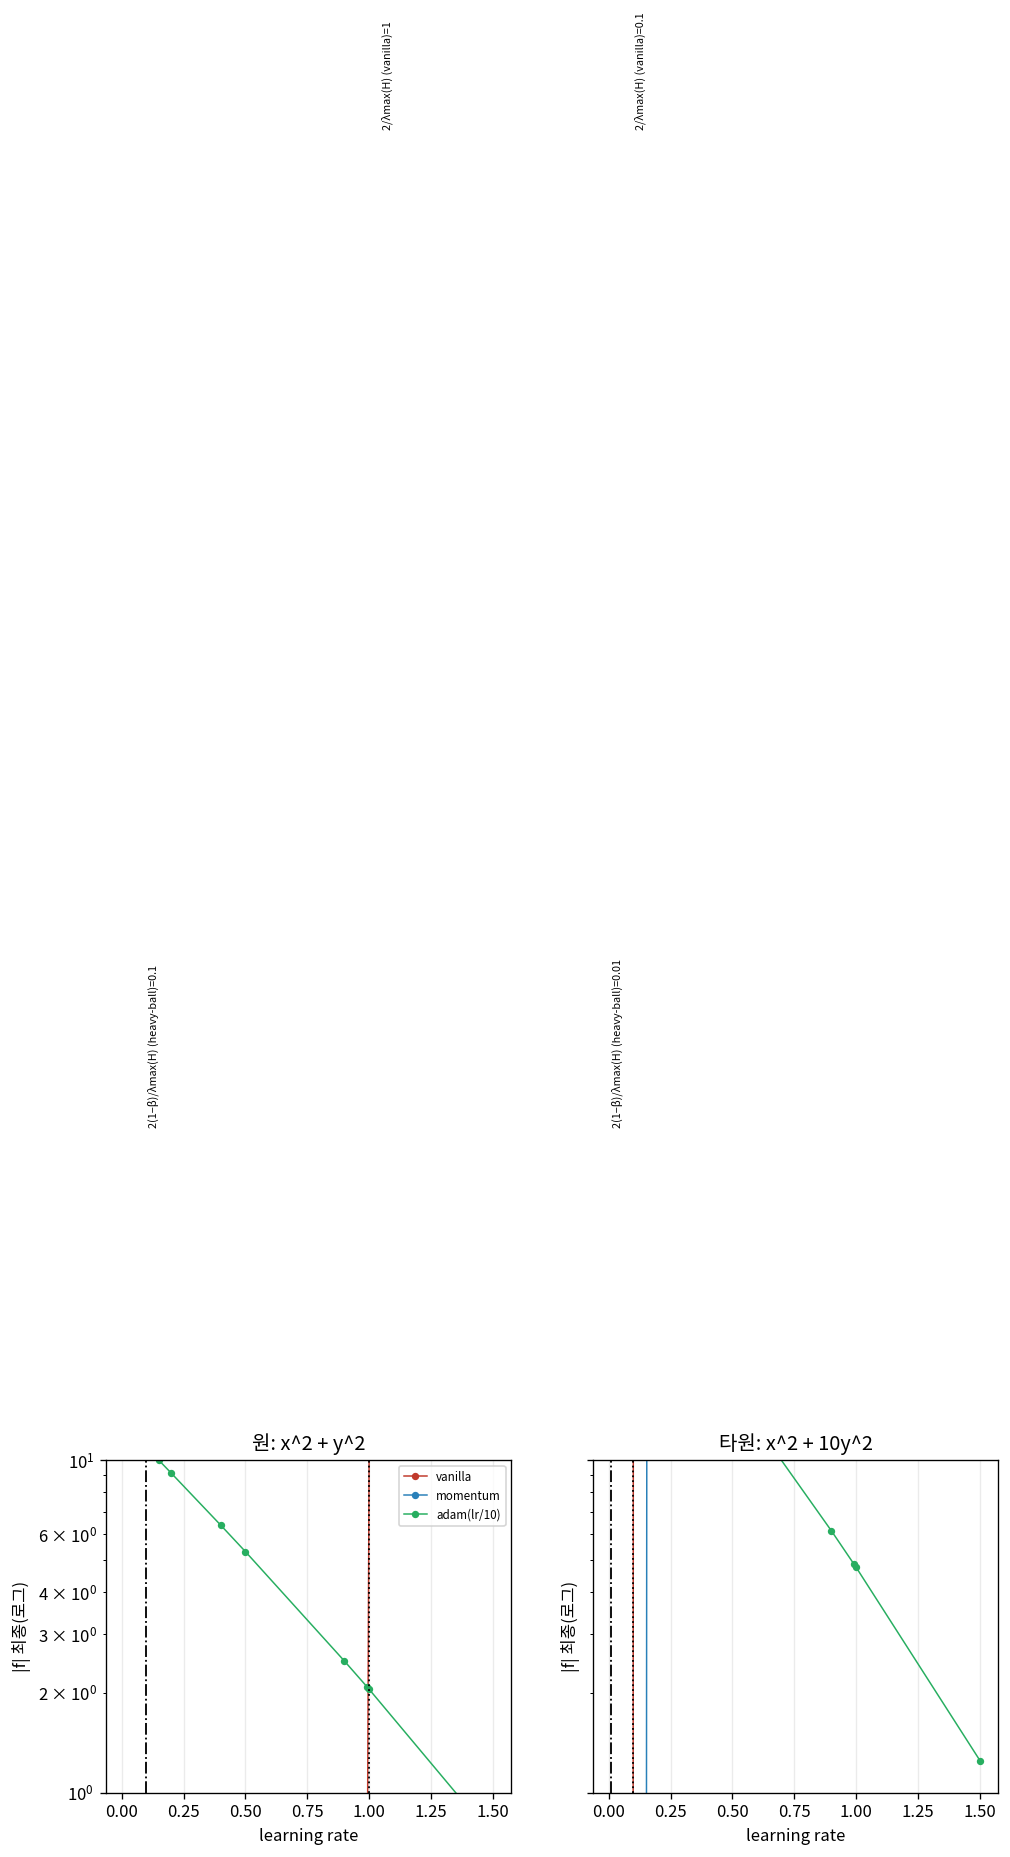
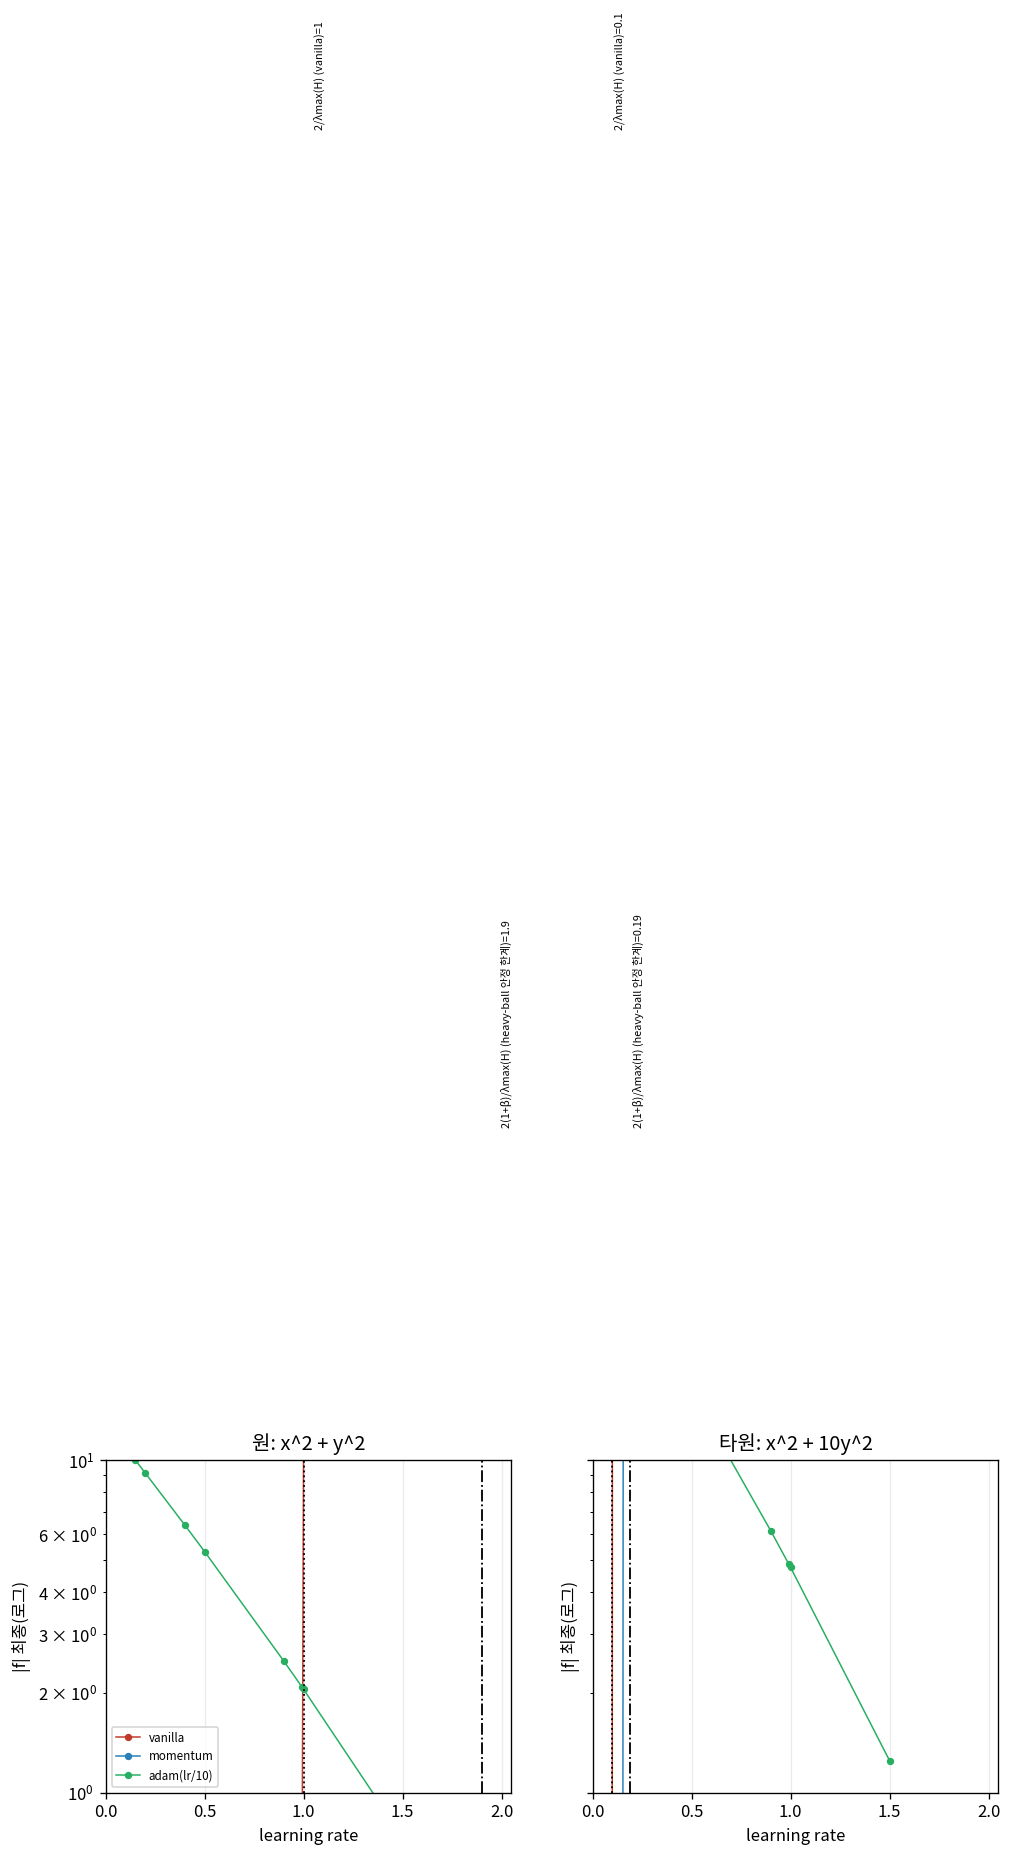
fix(audit-2b): 모멘텀 상한 2차 재 정정 — 발산 경계는 안정 한계 2(1+β)/λmax(H)
1차 감사에서 모멘텀 이론 상한을 실효 lr 휴리스틱 2(1−β)/λmax(H)(원 0.1·타원 0.01)로
"정정"했으나, 이것은 발산 경계가 아니라 "GD 동급 수렴속도" 상한이었다. 그 결과
analysis §5 에서 "측정 상한(원문기준) 원 1.5·타원 0.15 > 이론 0.1·0.01"이라는
새 자기모순이 생겼다(2차 감사 지적).

상태행렬 유도: heavy-ball(v←βv+g, p←p−lr·v)의 좌표별 상태행렬
M = [[1−lr·λ, −lr·β],[λ, β]] 의 스펙트럼반경 < 1 ⇔ lr·λ < 2(1+β).
→ **안정 한계 2(1+β)/λmax(H) = 원 1.9 · 타원 0.19**.
실측 대조: 타원 lr=0.15 안정(4.973e-03) → 0.2 발산(4.702e+37) — 경계 ∈(0.15,0.2] 로 0.19 와 일치.
100회 내 f<1e-8 인 momentum lr 이 하나도 없는 것(자체기준 측정 상한 None)은
실효lr 상한(0.1/0.01)이 수렴"속도" 기준임과 정합.

반영: optimizer.py(클래스 독스트림·upper·팩토리 계수·이론_상한_정의·주의·그림05 점선+xlim)·
check_requirements(기대값 0.19)·test_gates(0.19)·README(표 행·정정 기록 2번·G3 행).
검증: gates 4/4 · 82/82 · STRICT 23 passed · 노트북 2회 빌드 바이트 동일.

diff --git a/src/optimizer.py b/src/optimizer.py
@@ -9,8 +9,10 @@
    원 lr=0.01·0.99 는 부호 반전 없는 **단조 수렴 중**(정체)이다. → 발산 / 진동(좌표 부호반전 관측) / 정체 / 수렴 4분할.
 2. **원문 기준 열**을 추가한다: 원문 4-2 는 "lr=0.1, 100회 후 반경 0.1 이내"를 요구한다. 자체 기준(f<1e-8)은
    원문보다 훨씬 엄격하므로 두 기준을 나란히 싣는다.
-3. 모멘텀·Adam 의 이론 상한을 정정한다. 이 구현의 모멘텀은 **heavy-ball 변형**(v←βv+g, p←p−lr·v)이라
-   실효 학습률이 lr/(1−β)=10·lr 이다 → 상한은 2/λmax 가 아니라 **2(1−β)/λmax**.
+3. 모멘텀·Adam 의 이론 상한을 정정한다(2차 감사에서 재 정정). 이 구현의 모멘텀은 **heavy-ball 변형**(v←βv+g, p←p−lr·v)이고,
+   **발산 경계는 안정 한계 2(1+β)/λmax(H)**(원 1.9·타원 0.19 — 상태행렬 스펙트럼반경<1 ⇔ lr·λ<2(1+β), 실측 발산 경계와 일치)다.
+   실효 학습률 lr/(1−β)=10·lr 에서 나오는 2(1−β)/λmax(H)(원 0.1·타원 0.01)는 "GD 동급 수렴속도" 기준이지 발산 경계가 아니고,
+   초판의 2/λmax(H)(원 1.0·타원 0.1)는 둘 다 아니다.
 4. 원문 4-4 "lr≥0.5 에서 발산"은 **원(x²+y²)에서는 성립하지 않는다**(이론 상한 1.0) → 대조 표를 싣는다.
 """
 from __future__ import annotations
@@ -46,9 +48,14 @@ class VanillaGD:
 
 
 class Momentum:
-    """heavy-ball 변형: v ← βv + g, p ← p − lr·v  (Nesterov 아님). 정상상태 실효 학습률 ≈ lr/(1−β)."""
+    """heavy-ball 변형: v ← βv + g, p ← p − lr·v  (Nesterov 아님). 정상상태 실효 학습률 ≈ lr/(1−β).
+
+    두 상한을 구분한다(2차 감사 자기정정):
+    - 발산 경계 = **안정 한계** lr·λmax < 2(1+β): 좌표별 상태행렬 [[1−lr·λ, −lr·β],[λ, β]] 의 스펙트럼반경<1 조건.
+    - 실효 lr = lr/(1−β) 휴리스틱의 2(1−β)/λmax 는 "GD 동급 수렴속도" 상한이지 발산 경계가 아니다.
+    """
     name = "momentum"
-    upper = f"2(1−β)/λmax(H) (heavy-ball · 실효 lr≈lr/(1−β)={1 / (1 - BETA):g}·lr)"
+    upper = "2(1+β)/λmax(H) (heavy-ball 안정 한계)"
 
     def __init__(self, lr: float, beta: float = BETA):
         self.lr, self.beta, self.v = lr, beta, None
@@ -113,7 +120,7 @@ def verdict(f0: float, f1: float, path: np.ndarray) -> str:
 
 def main() -> dict:
     rows, paths = [], {}
-    factories = [("vanilla", VanillaGD, 2.0), ("momentum", Momentum, 2.0 * (1 - BETA)),
+    factories = [("vanilla", VanillaGD, 2.0), ("momentum", Momentum, 2.0 * (1 + BETA)),
                  ("adam(lr/10)", lambda lr: Adam(lr / 10.0), None)]
     for fname, A in FUNCS.items():
         hess_max = HESS[fname]
@@ -193,12 +200,13 @@ def main() -> dict:
             ax.semilogy(xs_, np.clip(ys_, 1e-16, None), "o-", ms=3.4, lw=.9, color=color, label=oname)
         hess_max = HESS[fname]
         for coef, ls, lab in [(2.0, ":", "2/λmax(H) (vanilla)"),
-                              (2.0 * (1 - BETA), "-.", "2(1−β)/λmax(H) (heavy-ball)")]:
+                              (2.0 * (1 + BETA), "-.", "2(1+β)/λmax(H) (heavy-ball 안정 한계)")]:
             up = coef / hess_max
             ax.axvline(up, ls=ls, c="k", lw=1.1)
             ax.text(up * 1.05, 1e5 if coef == 2.0 else 1e2, f"{lab}={up:.3g}", fontsize=6.5, rotation=90, va="bottom")
         ax.set_title(fname); ax.set_xlabel("learning rate"); ax.set_ylabel("|f| 최종(로그)")
         ax.grid(alpha=.25)
+        ax.set_xlim(0, 2.05)   # 원의 안정 한계 1.9 가 스윕 범위(최대 1.5) 너머라도 보이도록
     axes[0].legend(fontsize=7)
     save(fig, "05_lr_sweep.png")
 
@@ -228,7 +236,7 @@ def main() -> dict:
                         "(발산 아님), momentum lr=0.5 → "
                         f"{next(r['f_최종'] for r in rows if r['함수'].startswith('원') and r['옵티'] == 'momentum' and r['lr'] == 0.5)}. "
                         "이론 상한이 원은 1.0, 타원은 0.1 이므로 'lr≥0.5 발산'은 **타원에서만** 참이다. "
-                        "그림 05 의 두 점선(2/λmax, 2(1−β)/λmax)이 그 경계다")},
+                        "그림 05 의 두 점선(2/λmax, 2(1+β)/λmax)이 그 경계다")},
            "핵심_실측": {"타원_vanilla_lr0.15": v_tae[0]["f_최종"], "타원_momentum_lr0.15": m_tae[0]["f_최종"],
                         "원_vanilla_측정상한(자체기준)": conv["원: x^2 + y^2 / vanilla"]["측정_상한(자체기준)"],
                         "원_vanilla_측정상한(원문기준)": conv["원: x^2 + y^2 / vanilla"]["측정_상한(원문기준)"],
@@ -238,15 +246,20 @@ def main() -> dict:
                         "타원_이론상한": conv["타원: x^2 + 10y^2 / vanilla"]["이론_상한"],
                         "타원_momentum_이론상한": conv["타원: x^2 + 10y^2 / momentum"]["이론_상한"]},
            "이론_상한_정의": {"vanilla": "lr < 2/λmax(H) — 원(H=2I) 1.0, 타원(H=diag(2,20)) 0.1",
-                              "momentum(heavy-ball v←βv+g)": "lr < 2(1−β)/λmax(H) — 원 0.1, 타원 **0.01** "
-                                                              "(실효 lr = lr/(1−β) = 10·lr 이라 vanilla 의 1/10)",
+                              "momentum(heavy-ball v←βv+g)": "발산 경계 = 안정 한계 lr < 2(1+β)/λmax(H) — 원 **1.9**, 타원 **0.19** "
+                                                              "(실측: 타원 0.15 안정 → 0.2 발산, 경계 ∈(0.15,0.2] 로 일치). "
+                                                              "실효 lr = lr/(1−β) = 10·lr 휴리스틱의 2(1−β)/λmax(H) = 원 0.1·타원 0.01 은 "
+                                                              "'GD 동급 수렴속도' 상한(100회 내 f<1e-8 인 lr 이 없는 것과 정합)이지 발산 경계가 아니다",
                               "adam": "해석 상한 없음(적응형) — 측정만 싣는다",
-                              "주의": "이전 버전은 세 옵티마이저 모두에 2/λmax 를 적었다. 모멘텀 상한이 10배 느슨하게 "
-                                      "잘못 표기됐던 것(감사 지적) — 그리고 코드 안 λmax 가 eigvalsh(A)[-1]=2·λmax(H) 였다"},
+                              "주의": "초판은 세 옵티마이저 모두에 2/λmax 를 적었고(1차 감사 지적), 1차 정정은 모멘텀에 "
+                                      "실효lr 상한 2(1−β)/λmax 를 발산 경계로 잘못 넣었다 → '측정(원문기준) 1.5·0.15 > 이론 0.1·0.01' "
+                                      "모순이 생김. 2차 감사에서 상태행렬 스펙트럼반경으로 안정 한계 2(1+β)/λmax 를 유도해 재 정정했다. "
+                                      "그리고 코드 안 λmax 는 eigvalsh(A)[-1]=2·λmax(H) 였다 → 표기를 헤세 기준으로 통일"},
            "주의": (f"최종값은 {ITERS}회 반복 후이며 '수렴' 자체기준은 f<{F_CONV:g}(원문 기준은 반경 ≤{R_SPEC}). "
                     "기준을 바꾸면 상한이 같이 움직이므로 lr 단독 주장 금지(함수·기준·반복수를 함께 적는다). "
                     "'진동'은 좌표의 부호 반전이 관측된 경우에만 붙이고, 감소 중이나 기준 미달이면 '정체'로 쓴다. "
-                    "모멘텀은 heavy-ball 변형이라 실효 학습률이 lr/(1−β)=10·lr → 상한 공식이 vanilla 와 다르다"),
+                    "모멘텀은 heavy-ball 변형: 발산 경계는 안정 한계 2(1+β)/λmax(H)(원 1.9·타원 0.19)이고, "
+                    "실효 학습률 lr/(1−β)=10·lr 은 수렴속도 문제다(GD 동급 상한 2(1−β)/λmax=원 0.1·타원 0.01)"),
            "조건": f"시작점 {list(P0)}, 반복 {ITERS}, float64, 모멘텀 β={BETA}(heavy-ball), Adam lr=lr/10"}
     return write("optimizer.json", out)
 

diff --git a/tests/test_gates.py b/tests/test_gates.py
@@ -72,10 +72,11 @@ def test_03_G3_원문42_반경_그리고_모멘텀_이점():
     assert van["판정"] == "발산", f"타원 lr=0.15 vanilla 가 발산해야 모멘텀과 대비된다: {van}"
     assert mom["원문4-2_기준(반경≤0.1)"], f"타원 lr=0.15 momentum 반경: {mom['반경_최종']}"
     assert mom["판정"] != "발산"
-    # 이론 상한: vanilla 는 2/λmax, heavy-ball 모멘텀은 2(1−β)/λmax 여야 한다(이전엔 둘 다 2/λmax 였다)
+    # 이론 상한: vanilla 는 2/λmax, heavy-ball 모멘텀의 발산 경계는 안정 한계 2(1+β)/λmax 여야 한다
+    # (초판은 둘 다 2/λmax, 1차 정정은 2(1−β)/λmax 로 잘못 넣었다 — 2차 감사 재 정정)
     ell = {k: v for k, v in op["수렴_상한"].items() if k.startswith("타원")}
     assert abs(ell["타원: x^2 + 10y^2 / vanilla"]["이론_상한"] - 0.1) < 1e-9
-    assert abs(ell["타원: x^2 + 10y^2 / momentum"]["이론_상한"] - 0.01) < 1e-9, ell["타원: x^2 + 10y^2 / momentum"]
+    assert abs(ell["타원: x^2 + 10y^2 / momentum"]["이론_상한"] - 0.19) < 1e-9, ell["타원: x^2 + 10y^2 / momentum"]
     for k, v in op["수렴_상한"].items():
         if v["측정_상한(자체기준)"] is not None and v["이론_상한"] is not None:
             assert v["측정_상한(자체기준)"] <= v["이론_상한"] + 1e-12, f"{k}: {v}"

diff --git a/scripts/check_requirements.py b/scripts/check_requirements.py
@@ -114,8 +114,8 @@ def main() -> int:
         check("원문4-6 두 옵티마이저 경로를 하나의 Figure에 겹침",
               "plot" in (ROOT / "src" / "optimizer.py").read_text(encoding="utf-8")
               and (FIG / "04_optimizer_paths.png").exists(), spec=True)
-        check("모멘텀 이론상한이 heavy-ball 공식(2(1−β)/λmax)",
-              abs(op["수렴_상한"]["타원: x^2 + 10y^2 / momentum"]["이론_상한"] - 0.01) < 1e-9,
+        check("모멘텀 안정한계가 heavy-ball 공식(2(1+β)/λmax) — 2차 감사 재 정정",
+              abs(op["수렴_상한"]["타원: x^2 + 10y^2 / momentum"]["이론_상한"] - 0.19) < 1e-9,
               str(op["수렴_상한"]["타원: x^2 + 10y^2 / momentum"]), spec=True)
     # 5-1/5-2/5-3/5-4/5-5 확률
     if pr:

diff --git a/reports/analysis.md b/reports/analysis.md
@@ -77,15 +77,15 @@
 | 케이스 | 측정 상한(자체 f<1e-8) | 측정 상한(원문 반경≤0.1) | 이론 상한 | 공식 |
 |---|---|---|---|---|
 | 원: x^2 + y^2 / vanilla | 0.9 | 0.9 | 1.0 | 2/λmax(H) |
-| 원: x^2 + y^2 / momentum | None | 1.5 | 0.1 | 2(1−β)/λmax(H) (heavy-ball · 실효 lr≈lr/(1−β)=10·lr) |
+| 원: x^2 + y^2 / momentum | None | 1.5 | 1.9 | 2(1+β)/λmax(H) (heavy-ball 안정 한계) |
 | 원: x^2 + y^2 / adam(lr/10) | None | None | None | 해석 상한 없음(적응형 스케일) — 측정보고용 |
 | 타원: x^2 + 10y^2 / vanilla | 0.09 | 0.095 | 0.1 | 2/λmax(H) |
-| 타원: x^2 + 10y^2 / momentum | None | 0.15 | 0.01 | 2(1−β)/λmax(H) (heavy-ball · 실효 lr≈lr/(1−β)=10·lr) |
+| 타원: x^2 + 10y^2 / momentum | None | 0.15 | 0.19 | 2(1+β)/λmax(H) (heavy-ball 안정 한계) |
 | 타원: x^2 + 10y^2 / adam(lr/10) | None | None | None | 해석 상한 없음(적응형 스케일) — 측정보고용 |
 
 - 원문 4-2 게이트: {"원문": "Vanilla GD, f=x²+y², lr=0.1, 100회 → 반경 0.1 이내", "반경_최종": "7.345e-10", "f_최종": "5.394e-19", "gate_원문4-2": true}
 - 타원 lr=0.15: vanilla **6.428e+61** vs momentum **4.973e-03** (100회 시점)
-- 최종값은 100회 반복 후이며 '수렴' 자체기준은 f<1e-08(원문 기준은 반경 ≤0.1). 기준을 바꾸면 상한이 같이 움직이므로 lr 단독 주장 금지(함수·기준·반복수를 함께 적는다). '진동'은 좌표의 부호 반전이 관측된 경우에만 붙이고, 감소 중이나 기준 미달이면 '정체'로 쓴다. 모멘텀은 heavy-ball 변형이라 실효 학습률이 lr/(1−β)=10·lr → 상한 공식이 vanilla 와 다르다
+- 최종값은 100회 반복 후이며 '수렴' 자체기준은 f<1e-08(원문 기준은 반경 ≤0.1). 기준을 바꾸면 상한이 같이 움직이므로 lr 단독 주장 금지(함수·기준·반복수를 함께 적는다). '진동'은 좌표의 부호 반전이 관측된 경우에만 붙이고, 감소 중이나 기준 미달이면 '정체'로 쓴다. 모멘텀은 heavy-ball 변형: 발산 경계는 안정 한계 2(1+β)/λmax(H)(원 1.9·타원 0.19)이고, 실효 학습률 lr/(1−β)=10·lr 은 수렴속도 문제다(GD 동급 상한 2(1−β)/λmax=원 0.1·타원 0.01)
 
 ### 원문 4-4 와 실측이 어긋나는 지점
 
@@ -96,7 +96,7 @@
 | 1.0 | 1.300e+01(진동) | 6.585e-04(진동) | 2.253e+257(발산) | 8.767e+252(발산) |
 | 1.5 | 2.089e+61(발산) | 1.547e-03(진동) | 1.207e+294(발산) | 1.873e+291(발산) |
 
-> **원(x²+y²)에서는 성립하지 않는다.** vanilla lr=0.5 → 0.000e+00(발산 아님), momentum lr=0.5 → 2.369e-05. 이론 상한이 원은 1.0, 타원은 0.1 이므로 'lr≥0.5 발산'은 **타원에서만** 참이다. 그림 05 의 두 점선(2/λmax, 2(1−β)/λmax)이 그 경계다
+> **원(x²+y²)에서는 성립하지 않는다.** vanilla lr=0.5 → 0.000e+00(발산 아님), momentum lr=0.5 → 2.369e-05. 이론 상한이 원은 1.0, 타원은 0.1 이므로 'lr≥0.5 발산'은 **타원에서만** 참이다. 그림 05 의 두 점선(2/λmax, 2(1+β)/λmax)이 그 경계다
 
 반복수를 늘리면 판정이 바뀌는 구간이 있다(아래는 momentum 이 1000회에서 수렴):
 
